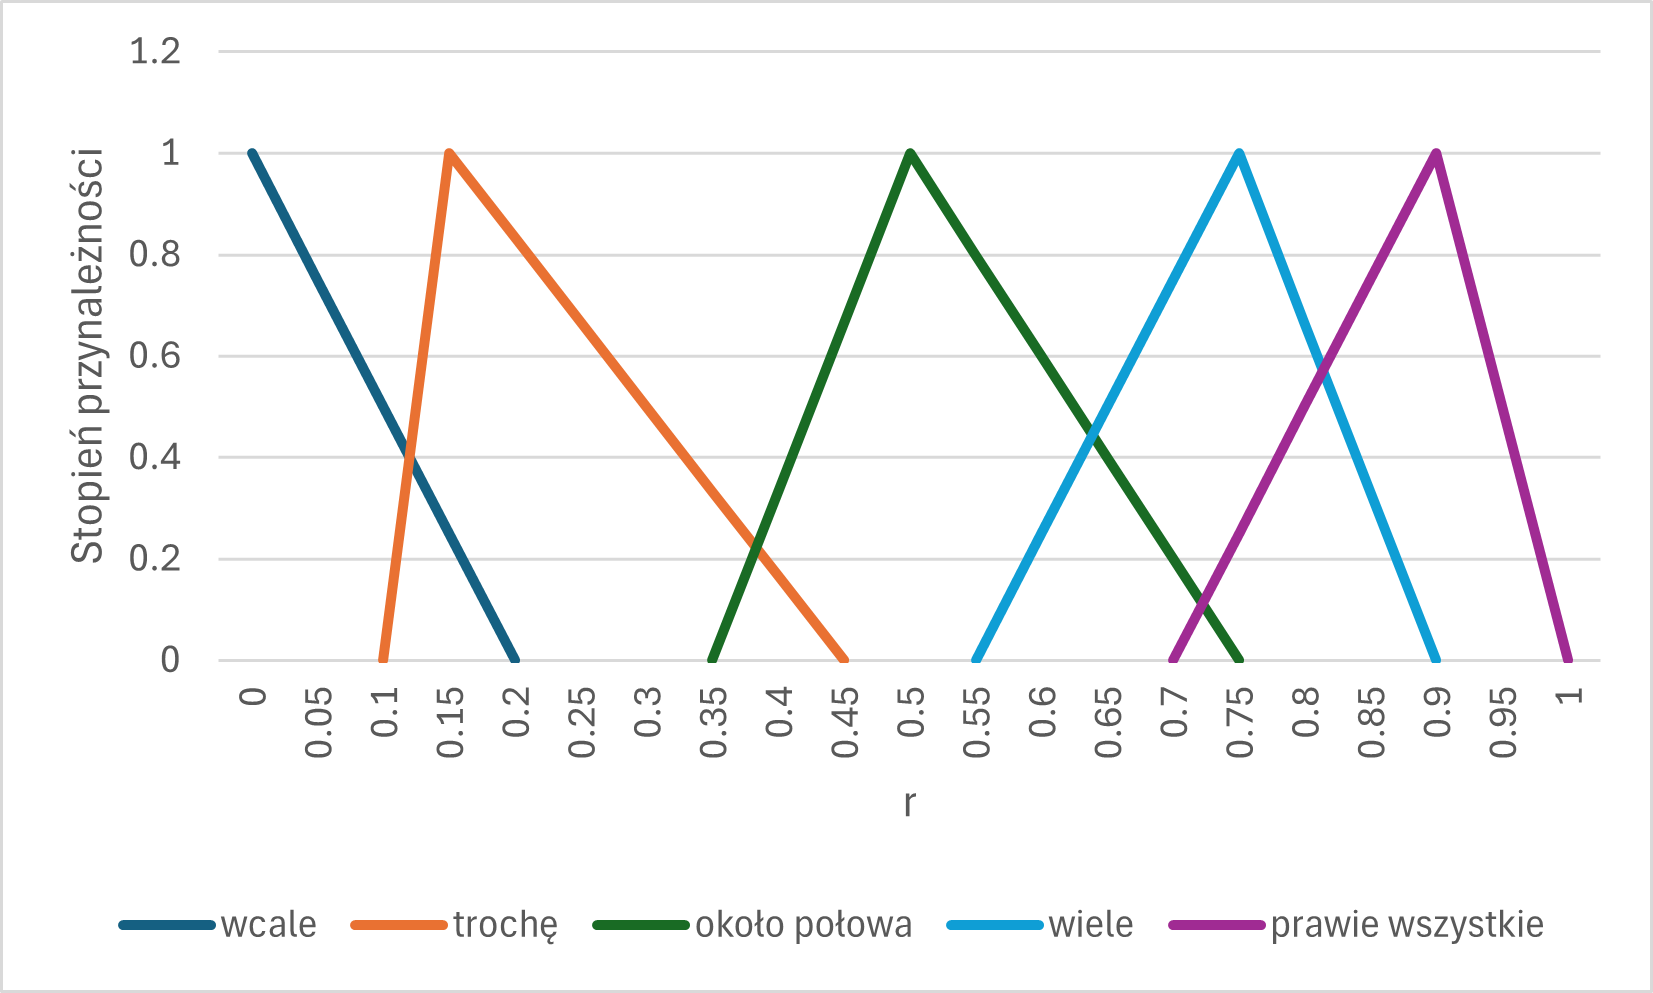
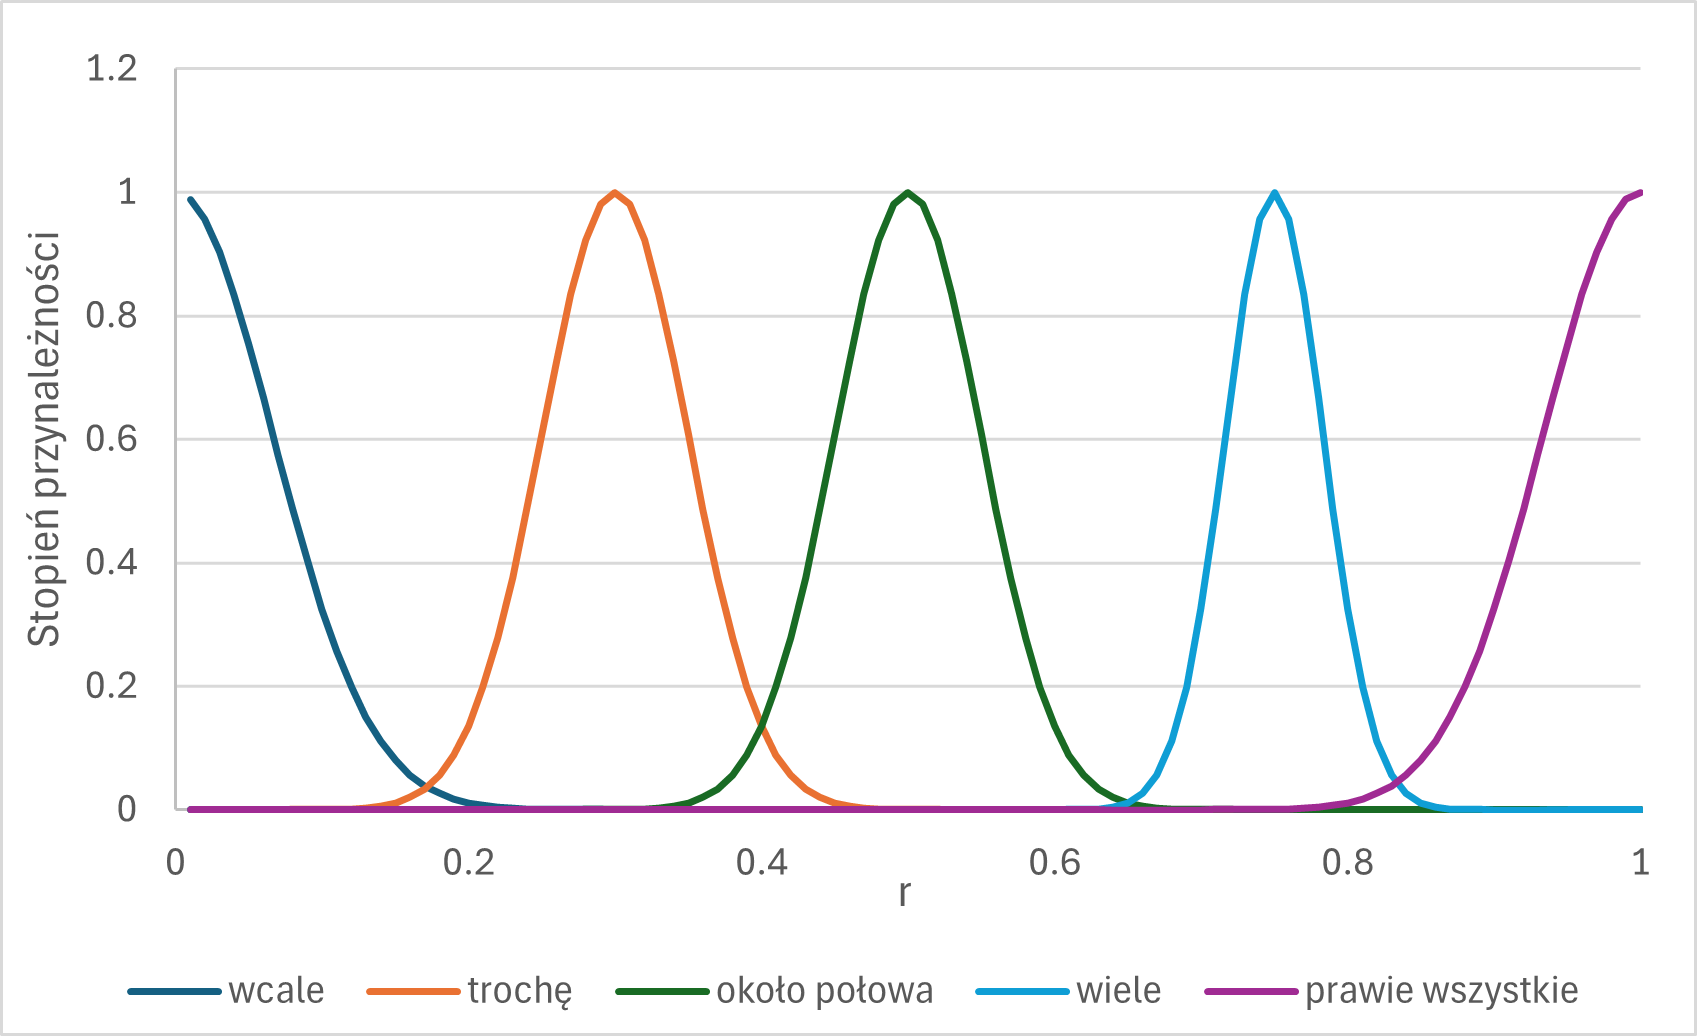
ksr -> some classes

diff --git a/KSR/Projekt2/ksr/src/main/java/ksr/zad2/KsrApplication.java b/KSR/Projekt2/ksr/src/main/java/ksr/zad2/KsrApplication.java
@@ -1,13 +1,36 @@
 package ksr.zad2;
 
+import ksr.zad2.fuzzy.lingustic.Quantifier;
+import ksr.zad2.fuzzy.set.GaussianFunction;
 import org.springframework.boot.SpringApplication;
 import org.springframework.boot.autoconfigure.SpringBootApplication;
+
+import java.util.Arrays;
+import java.util.List;
 
 @SpringBootApplication
 public class KsrApplication {
 
 	public static void main(String[] args) {
-		SpringApplication.run(KsrApplication.class, args);
+//		SpringApplication.run(KsrApplication.class, args);
+		// Przykładowe dane temperatury
+		List<Double> daneTemperatury = Arrays.asList(
+				-20.0, -5.0, 0.0, 5.0, 10.0, 15.0, 20.0, 25.0, 30.0, 35.0,
+				-10.0, 2.0, 8.0, 12.0, 18.0, 22.0, 28.0, 32.0, 40.0, 45.0
+		);
+
+		List<String> terminy = Arrays.asList(
+				"bardzo zimno", "zimno", "umiarkowanie", "ciepło", "gorąco"
+		);
+
+		List<String> quantifiers = Arrays.asList(
+				"prawie żaden", "trochę", "około połowy", "wiele", "prawie wszystkie"
+		);
+
+		Quantifier quantifier = new Quantifier(quantifiers.getFirst(), new GaussianFunction(0.0, 0.2));
+
+		System.out.println(quantifier.getFuzzy().contains(0.2));
+
 	}
 
 }

diff --git a/KSR/Projekt2/ksr/src/main/java/ksr/zad2/fuzzy/lingustic/LinguisticVariable.java b/KSR/Projekt2/ksr/src/main/java/ksr/zad2/fuzzy/lingustic/LinguisticVariable.java
@@ -1,0 +1,26 @@
+package ksr.zad2.fuzzy.lingustic;
+
+import ksr.zad2.fuzzy.set.FuzzySet;
+import lombok.Data;
+
+import java.util.List;
+import java.util.Map;
+
+@Data
+public class LinguisticVariable {
+    private String name;
+    private List<String> terms;
+    private Map<String, FuzzySet> fuzzySets;
+    private List<FuzzySet> sets;
+    private double min;
+    private double max;
+
+    public LinguisticVariable(String name, List<String> terms, List<FuzzySet> sets, double min, double max) {
+        this.name = name;
+        this.terms = terms;
+        this.sets = sets;
+        this.min = min;
+        this.max = max;
+    }
+
+}

diff --git a/KSR/Projekt2/ksr/src/main/java/ksr/zad2/fuzzy/set/GaussianFunction.java b/KSR/Projekt2/ksr/src/main/java/ksr/zad2/fuzzy/set/GaussianFunction.java
@@ -1,20 +1,17 @@
 package ksr.zad2.fuzzy.set;
 
+import lombok.AllArgsConstructor;
 import lombok.Data;
 
 @Data
+@AllArgsConstructor
 public class GaussianFunction implements FuzzySet {
     private final double center;
     private final double width;
 
-    public GaussianFunction(double center, double width) {
-        this.center = center;
-        this.width = width;
-    }
-
     @Override
     public double contains(double x) {
-        return Math.exp(-(center - x) * (center - x) / (2 * width * width));
+        return Math.exp(-0.5 * (((x - center) / (width / 3)) * ((x - center) / (width / 3))));
     }
 
 }

diff --git a/KSR/Projekt2/ksr/src/main/java/ksr/zad2/fuzzy/lingustic/Quantifier.java b/KSR/Projekt2/ksr/src/main/java/ksr/zad2/fuzzy/lingustic/Quantifier.java
@@ -1,0 +1,12 @@
+package ksr.zad2.fuzzy.lingustic;
+
+import ksr.zad2.fuzzy.set.FuzzySet;
+import lombok.AllArgsConstructor;
+import lombok.Data;
+
+@Data
+@AllArgsConstructor
+public class Quantifier {
+    private String name;
+    private FuzzySet fuzzy;
+}

diff --git a/KSR/Projekt2/ksr/src/main/java/ksr/zad2/model/RelativeQuantifiers.java b/KSR/Projekt2/ksr/src/main/java/ksr/zad2/model/RelativeQuantifiers.java
@@ -1,0 +1,5 @@
+package ksr.zad2.model;
+
+public class RelativeQuantifiers {
+
+}

diff --git a/KSR/Projekt2/ksr/src/main/java/ksr/zad2/fuzzy/lingustic/Summary.java b/KSR/Projekt2/ksr/src/main/java/ksr/zad2/fuzzy/lingustic/Summary.java
@@ -1,0 +1,4 @@
+package ksr.zad2.fuzzy.lingustic;
+
+public class Summary {
+}
